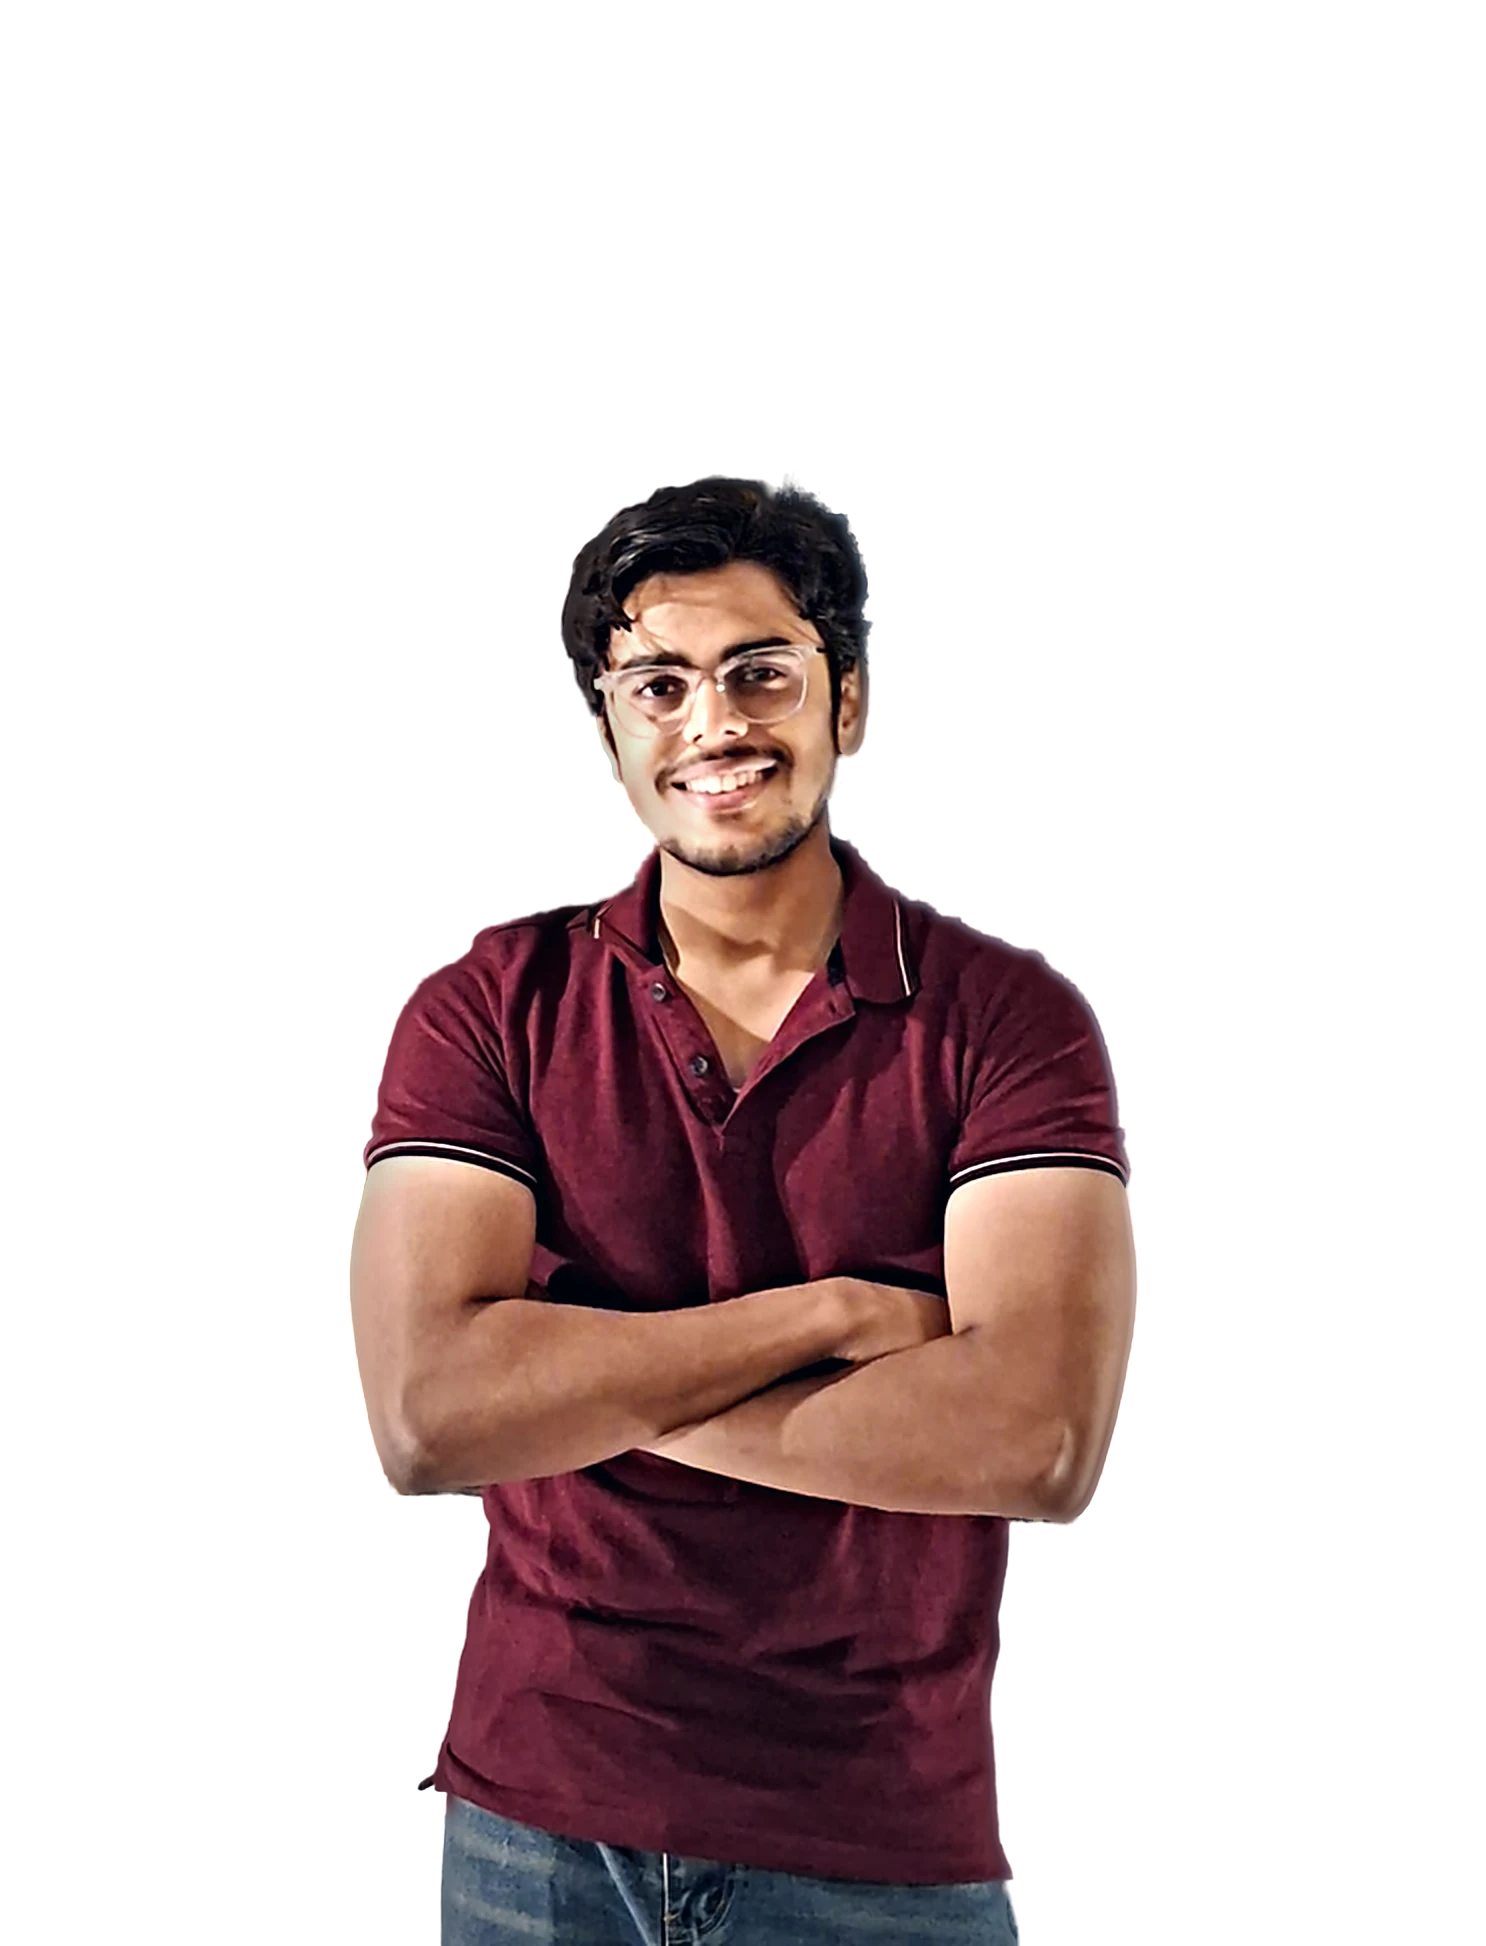
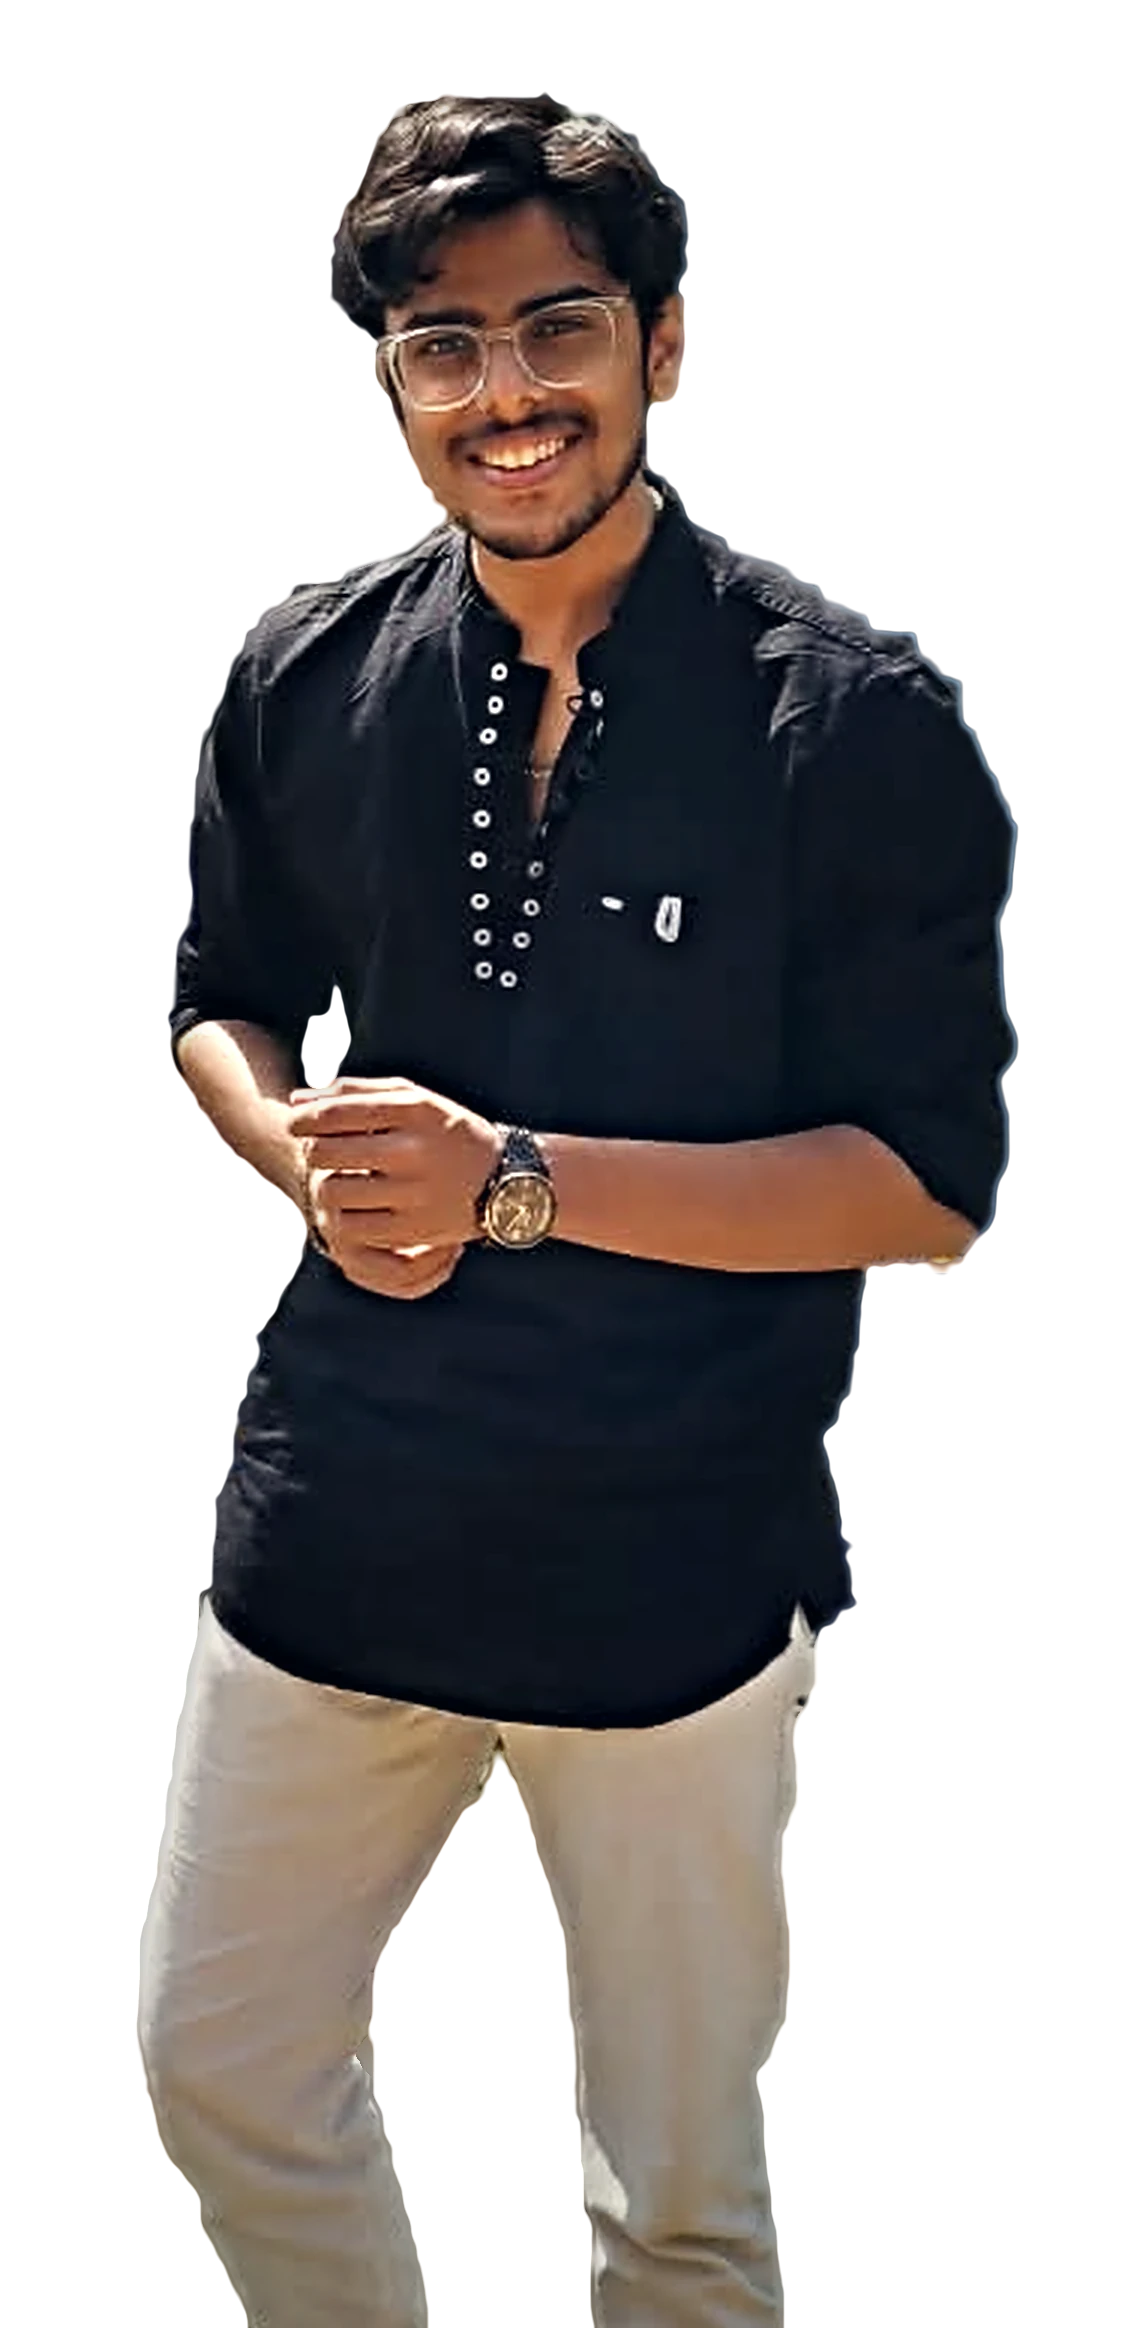
Swap hero portrait for full-length photo and reframe it

diff --git a/css/style.css b/css/style.css
@@ -745,9 +745,9 @@ svg {
 .hero-photo {
   position: absolute;
   left: calc(307 * var(--u));
-  top: calc(-118 * var(--u));
+  top: calc(84 * var(--u));
   width: calc(825 * var(--u));
-  height: calc(1080 * var(--u));
+  height: calc(900 * var(--u));
   transform: translate3d(0, var(--drift, 0px), 0);
   will-change: transform;
 }
@@ -1103,7 +1103,7 @@ svg {
 .brand-plate {
   position: absolute;
   left: 50%;
-  top: 56%;
+  top: 60%;
   z-index: 4;
   width: calc(364 * var(--u));
   min-width: 260px;
@@ -2648,13 +2648,13 @@ svg {
   .hero-photo {
     order: 3;
     width: calc(100% + 2 * var(--gx));
-    height: calc(470 * var(--u));
+    height: calc(560 * var(--u));
     margin: 18px calc(-1 * var(--gx)) 0;
   }
 
   .brand-plate {
     top: auto;
-    bottom: 28%;
+    bottom: 24%;
     width: calc(300 * var(--u));
     margin-left: calc(-150 * var(--u));
   }
